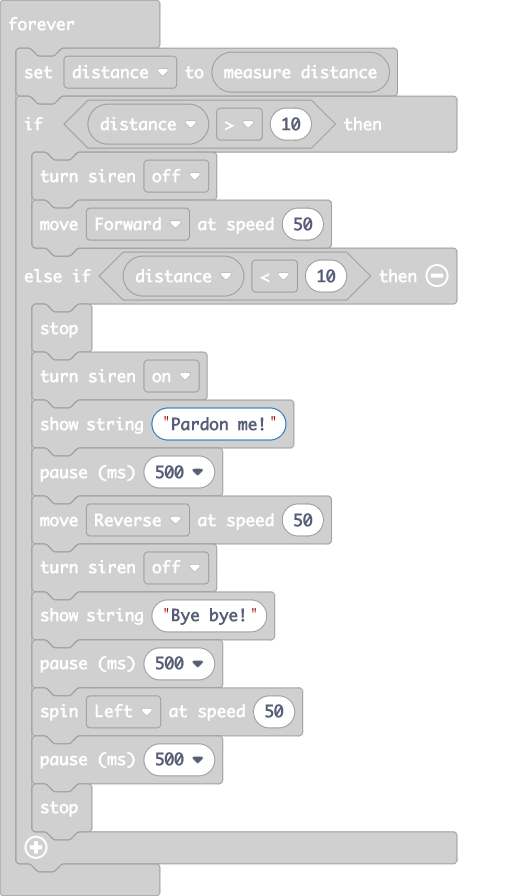
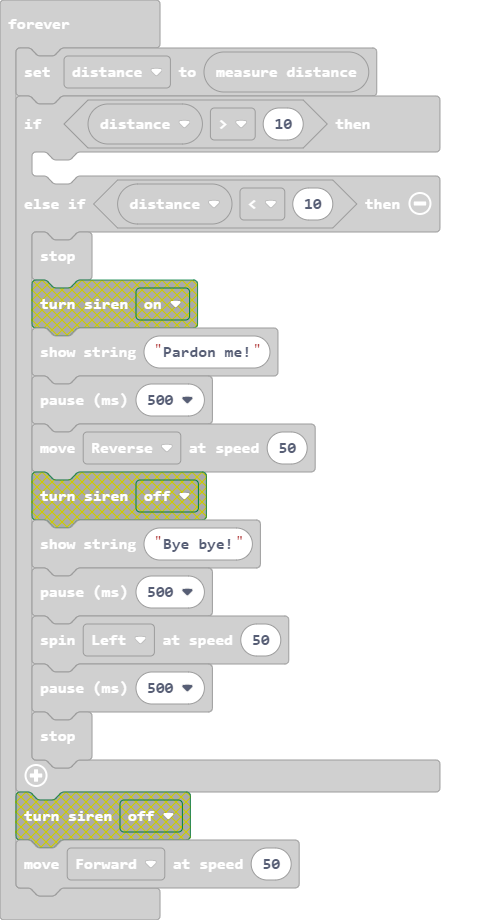
Update main.blocks, main.ts

diff --git a/main.ts b/main.ts
@@ -8,15 +8,12 @@ input.onButtonPressed(Button.B, function () {
 basic.forever(function () {
     distance = Kitronik_Move_Motor.measure()
     if (distance > 10) {
-        Kitronik_Move_Motor.soundSiren(Kitronik_Move_Motor.OnOffSelection.Off)
         Kitronik_Move_Motor.move(Kitronik_Move_Motor.DriveDirections.Forward, 50)
     } else if (distance < 10) {
         Kitronik_Move_Motor.stop()
-        Kitronik_Move_Motor.soundSiren(Kitronik_Move_Motor.OnOffSelection.On)
         basic.showString("Pardon me!")
         basic.pause(500)
         Kitronik_Move_Motor.move(Kitronik_Move_Motor.DriveDirections.Reverse, 50)
-        Kitronik_Move_Motor.soundSiren(Kitronik_Move_Motor.OnOffSelection.Off)
         basic.showString("Bye bye!")
         basic.pause(500)
         Kitronik_Move_Motor.spin(Kitronik_Move_Motor.SpinDirections.Left, 50)
